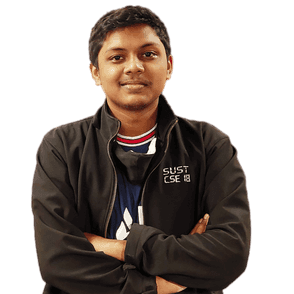
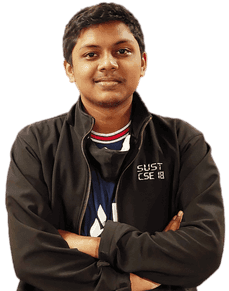
Image Added

diff --git a/index.html b/index.html
@@ -10,16 +10,14 @@
 <body>
   <img class="portrait" src="images/ataullha.png" alt="ataullha's image"> <br>
   <h1>Md Ataullha</h1>
-  <i>
-    <dl>
-      <dt>Undergrad Student</dt>
-      <dt>Department of <a href="https://www.sust.edu/d/cse/4" target="_blank">Computer Science & Engineering</a></dt>
-      <dt>Departments from <a href="https://www.sust.edu/#" target="_blank">School of Applied Science & Technology</a>
-      </dt>
-      <dt><a href="https://www.sust.edu/" target="_blank">Shahjalal University of Science and Technology (SUST)</a></dt>
-      <dt>Kumargaon, Sylhet-3114, Bangladesh</dt>
-    </dl>
-  </i>
+  <dl>
+    <dt>Undergrad Student</dt>
+    <dt>Department of <a href="https://www.sust.edu/d/cse/4" target="_blank">Computer Science & Engineering</a></dt>
+    <dt>Departments from <a href="https://www.sust.edu/#" target="_blank">School of Applied Science & Technology</a>
+    </dt>
+    <dt><a href="https://www.sust.edu/" target="_blank">Shahjalal University of Science and Technology (SUST)</a></dt>
+    <dt>Kumargaon, Sylhet-3114, Bangladesh</dt>
+  </dl>
   <p>
     I desire to be an entrepreneur. However, as a computer science student, I enjoy developing affiliated things and
     presently working with the basics of web development. I want to continue my higher study also gain knowledge about
@@ -54,11 +52,12 @@
   <ul>
     <li>
       <p> <b> Shahjalal University of Science and Technology, Sylhet </b> <br>
-        Bachelor of Engineering-BE, Computer Science <br> Feb 2018 - Present (5th Semester ) <br> <i> Grade: 3.58/4.00
-          <br>
-          Activities and societies: CSE Society, SUST</i> <br>
+        Bachelor of Engineering-BE, Computer Science <br> Feb 2018 - Present (5th Semester ) <br> Grade: 3.58/4.00
+        <br>
+        Activities and societies: CSE Society, SUST <br>
         - Maybe I'm going through the most challenging span of my life both physically and mentally. Yet, I will come
-        back strongly, inshallah.</p>
+        back strongly, inshallah.
+      </p>
     </li>
     <li>
       <p>
@@ -68,14 +67,12 @@
         <br>
         Jul 2016 - Jun 2018
         <br>
-        <i>
-          Grade: 5.00/5.00
-          <br>
-          Activities and societies: General Grade Government Scholarship in HSC,
-          Science Club, English Club
-        </i>
+        Grade: 5.00/5.00
         <br>
-        - I think it was the finest achievement of my life so far. <br> - <i>Perfect Attendance Certificate</i>
+        Activities and societies: General Grade Government Scholarship in HSC,
+        Science Club, English Club
+        <br>
+        - I think it was the finest achievement of my life so far. <br> - Perfect Attendance Certificate
         <a href="https://ataullha.github.io/documents/Perfect Attendance Certificate.pdf" target="_blank">Perfect
           Attendance Certificate
           for 95% or More Attendance</a>
@@ -89,10 +86,9 @@
         <br>
         Jan 2009 - Feb 2016
         <br>
-        <i>
-          Grade: 5.00/5.00
-          <!-- <br> -->
-        </i>
+
+        Grade: 5.00/5.00
+        <!-- <br> -->
         <br>
         - Taught the way to belive me
       </p>
@@ -106,9 +102,7 @@
         <br>
         Jan 2004 - Dec 2009
         <br>
-        <!-- <i> -->
         <!-- <br> -->
-        <!-- </i> -->
         <!-- <br> -->
         - Life was natural
       </p>
@@ -122,7 +116,8 @@
   <ul>
     <li>
       <p>
-        <b> <a class="google-play-link" href="https://play.google.com/store/apps/details?id=com.sust.kinblood&gl=US" target="_blank">KIN
+        <b> <a class="google-play-link" href="https://play.google.com/store/apps/details?id=com.sust.kinblood&gl=US"
+            target="_blank">KIN
             Blood</a> </b> <br>
         Apr 2022 - Present <br>
         Associated with <a href="https://kinsust.org/" target="_blank">KIN, SUST</a> <br>
@@ -179,6 +174,7 @@
     <br>
     <li>
       <b>SUST Faculties Information Parser</b> <br>
+
       Dec 2021 - Jan 2022 <br>
       Associated with Shahjalal University of Science and Technology <br>
       <a href="https://github.com/Ataullha/Jsoup" target="_blank">Show project</a> <br>
@@ -265,7 +261,7 @@
     <a href="https://github.com/Ataullha" target="_blank">GitHub</a>
   </p>
   <hr>
-  <footer>&copy; 2022 Md Ataullha <br> Last Updated: 2022-04-07 14:57:57</footer>
+  <footer>&copy; 2022 Md Ataullha <br> Last Updated: 2022-04-10 05:08:29</footer>
 </body>
 
 </html>

diff --git a/css/styles.css b/css/styles.css
@@ -1,3 +1,17 @@
+* {
+  min-width: 190px;
+}
+
+table,
+b,
+p,
+h1,
+h3,
+li,
+dt {
+  font-style: italic;
+}
+
 a {
   color: blue;
   font-style: italic;
@@ -7,19 +21,8 @@ a:hover {
   color: blue;
 }
 
-table,
-b,
-p,
-h1,
-h3 {
-  font-style: italic;
-}
-
-footer {
-  text-align: center;
-}
-
-.contact-information a, .google-play-link {
+.contact-information a,
+.google-play-link {
   text-decoration: none;
 }
 
@@ -29,14 +32,17 @@ footer {
 
 .present-address {
   color: black;
-} 
+}
 
 .topic {
   font-weight: bold;
 }
 
+footer {
+  text-align: center;
+}
+
 .portrait {
-  height: 250px;
-  width: 250px;
-  border-radius: 50%;
+  height: 230px;
+  width: 180px;
 }
